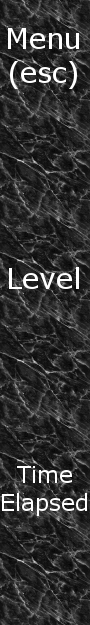
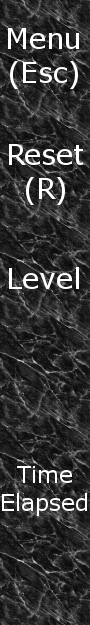
Changed GLevelSelect path names and modified images for the sideMenu

diff --git a/Blujm Game/src/game/GLevelSelect.java b/Blujm Game/src/game/GLevelSelect.java
@@ -28,7 +28,7 @@ public class GLevelSelect {
 
     private String worldsFolder = GWorldMaker.WORLD_PROTOTYPE_FOLDER;
     private static final int spacing = 20;
-
+    private boolean onLevelSelect;
 
     //Outlines the possible area for world select buttons
     public static final int LEFT = GGraphics.WORLD_LEFT + 2*spacing;
@@ -45,14 +45,15 @@ public class GLevelSelect {
         UI.setMouseListener(this::doMouse);
         File f = new File(worldsFolder);
         worlds = f.list();
+        onLevelSelect = true;
     }
 
     public void doMouse(String action, double x, double y){
-        if (action.equals("released")){
+        if (onLevelSelect && action.equals("released")){
             int world = worldSelect(x,y);
             if (world != -1){
-                UI.println(world);
                 GWorldMaker.loadWorld(world);
+                onLevelSelect = false;
             }
         }
     }
@@ -75,11 +76,9 @@ public class GLevelSelect {
             buttonTop = TOP + (row*spacing) + spacing + row*buttonHeight;
             if(x > buttonLeft && x < buttonLeft + buttonWidth &&
                     y > buttonTop && y < buttonTop + buttonHeight){
-                UI.println("on button!");
-                return counter;
+                return counter ;
             }
         }
-        UI.println("not on button");
         return -1;
     }
 
@@ -101,7 +100,7 @@ public class GLevelSelect {
             index = worlds[counter].indexOf(".");
             UI.setFontSize(24);
             UI.setColor(Color.BLACK);
-            UI.drawString("World", buttonLeft + buttonWidth* .1, buttonTop + buttonHeight*.5);
+            UI.drawString("Level", buttonLeft + buttonWidth* .1, buttonTop + buttonHeight*.5);
             UI.drawString(worlds[counter].substring(index - 1, index), buttonLeft + buttonWidth*.43,
                             buttonTop + buttonHeight*.85);
         }
